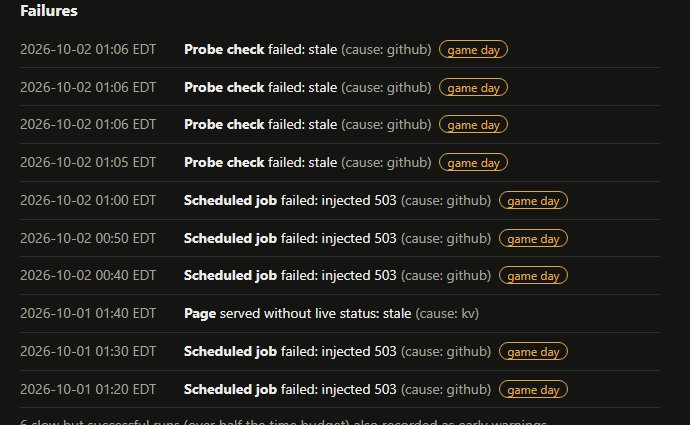
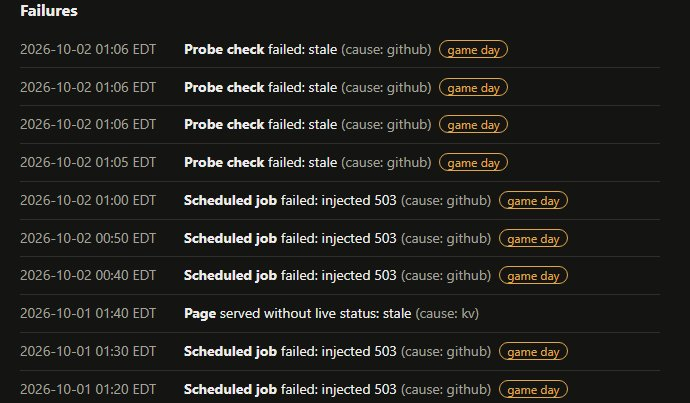
Note: the failure list that lost its history
The reliability page stopped showing both game days and the 2 Oct outage; the
note says what was seen, why (one cap of 1,000 records shared by every source,
filled by the game's records), what was not lost (anything), and the fix, with
the 3 Oct, before, after and history-page screenshots. Listed first under
Notes. Finding 4 stays open: no check runs the storage read itself.

diff --git a/src/data/profile.ts b/src/data/profile.ts
@@ -37,6 +37,12 @@ export interface SiteNote {
 
 export const siteNotes: SiteNote[] = [
   {
+    title: "The failure list that lost its history",
+    date: "2026-10-04",
+    claim: "Nothing was lost. One cap was shared, and the wrong records filled it.",
+    href: "/notes/failure-list-lost-history/",
+  },
+  {
     title: "When a load test used up the day's database writes",
     date: "2026-10-02",
     claim: "The failure looked like a choice. The logs said otherwise.",

diff --git a/docs/STATUS.md b/docs/STATUS.md
@@ -32,7 +32,8 @@ Last updated: 3 Oct 2026 (after Ludo telemetry v2 was merged and deployed).
 - Ludo telemetry v2 (3 Oct 2026, PR #1, merged and deployed; live `/reliability/` shows both figures; not run on the dev Worker first): `ludo_action` counts human actions only; bot steps go to `ludo_bot`, one event per run of bot turns (worst lateness, steps, late steps), with its own proposed 99% objective and a "Bots on pace" figure on `/reliability/#ludo`. Log lines are `v: 2`; the backfill parser reads v1 and v2.
 - Ludo fixes (3 Oct 2026, on `main`): a moved token no longer vanishes until the next roll (the last animation frame dropped it); invite screen shows one action; the game ends with the last human. Verified: `npm run check`; 2,000 seeded engine games finish, replay exactly and never move a bot after the last human finishes; local friends' room over WebSockets (start with bots, leave, play goes on); invite and plain start screens rendered headless. Not yet tried on a phone.
 - Ludo (2 Oct 2026): 2,000 seeded games replay exactly and run to full placings; live tests of solo, four-player, rematch, leave (lobby, mid-game, solo stops the room), chat in 18 scripts, names; phone and desktop renders; dev load test at 40 rooms (p99 240 to 80 ms after ADR-027).
-- **Reliability redesign and the failure-list bug** (4 Oct 2026, merged to `main` and deployed): the Failures list had dropped game day 1 and the 2 Oct outage. Not data loss: the ledger keeps every record (400 days), but the window read took the newest 1,000 records across all sources and Ludo's think-time and round-trip records filled them. Fixed with a per-source cap (200 each), and a new `/reliability/failures/` lists every kept failure of the site's own checks, by day, with game days marked. The page itself: the answer first (the top line names dependencies needing attention), the 30-day strip under the objectives, speed and the glossary folded, the latest 5 failures plus the full-history link, the dependency board compact with risks first, the newest incident in full and earlier ones folded, games' secondary figures folded. Homepage short path: colons instead of dashes. Verified: 10 dashboard checks; locally the per-source query runs on the Durable Object's SQLite and the history page lists 43 local failures across 5 days. Before images for a write-up are saved in `public/notes/failure-list-cap/` (not linked yet); the after image needs production.
+- **Note: the failure list that lost its history** (4 Oct 2026, published): `/notes/failure-list-lost-history/`, first under Notes. Then, before, after and history-page screenshots in `public/notes/failure-list-cap/`. Finding 4 open: no check runs the ledger's storage read itself.
+- **Reliability redesign and the failure-list bug** (4 Oct 2026, merged to `main` and deployed): the Failures list had dropped game day 1 and the 2 Oct outage. Not data loss: the ledger keeps every record (400 days), but the window read took the newest 1,000 records across all sources and Ludo's think-time and round-trip records filled them. Fixed with a per-source cap (200 each), and a new `/reliability/failures/` lists every kept failure of the site's own checks, by day, with game days marked. The page itself: the answer first (the top line names dependencies needing attention), the 30-day strip under the objectives, speed and the glossary folded, the latest 5 failures plus the full-history link, the dependency board compact with risks first, the newest incident in full and earlier ones folded, games' secondary figures folded. Homepage short path: colons instead of dashes. Verified: 10 dashboard checks; locally the per-source query runs on the Durable Object's SQLite and the history page lists 43 local failures across 5 days. Write-up published (see above).
 - **Dependency gaps note** (4 Oct 2026): **held by the owner** until the gaps are fixed and an after shot exists. Draft in `docs/drafts/dependency-expiry-gaps.astro` (not built); before image `public/notes/dependency-expiry-gaps/before-gaps.jpg` on branch `dependency-note`. To publish: move it back to `src/pages/notes/`, restore its Notes entry and the board's "Why unknowns stay visible" link. States copied from the live `/api/limits`: four OK, usage feed token unchecked, deploy token not recorded. Close it by adding the secrets and a dated line under its "Updates". Failed expiry checks now retry every 30 minutes instead of daily, so a fix shows within half an hour.
 - **What could stop this site** (4 Oct 2026, ADR-030, merged to `main` and deployed): a card on `/reliability/#limits` and `GET /api/limits`: six renewals with expiry read from the issuer daily (domain, GitHub token, incident desk token, log backfill token, usage feed token, Cloudflare deploy token), and today's use of five free-tier allowances every 30 minutes. A daily `limits` workflow keeps one escalating issue per item (P3 at 90 days, P2 at 60, P1 at 30, P0 expired). Verified locally: the domain (29 Sep 2027, registry) and the log backfill token (31 Oct 2027, Cloudflare) were read live; the CI report path refused a missing or wrong secret (401), a bad body (400) and an oversized one (413) and accepted a valid report (204); the workflow script's dry run chose P2 at 46 days and P3 for unreadable items; 8 dashboard checks pass, including the thresholds. **Needs the owner:** secrets `LIMITS_REPORT_TOKEN` (Cloudflare and GitHub) and `CF_ANALYTICS_TOKEN` (Cloudflare); until then those rows say so in public. Total storage is not shown: Cloudflare's analytics return no storage figure for this account.
 - Ludo empty games end (4 Oct 2026, merged to `main` and deployed): the last person pressing Leave mid-game ends it at once; if everyone just disconnects, it ends after 1 minute unless someone returns. Recorded once; the room keeps one small "ended" record and its link says the game has ended. Verified on `npm run preview`: both players left → late link told "ended"; a player back after 5 s resumed the same seat; nobody back → ended by the alarm at 60.6 s; one `ludo_game` record each. Not yet seen in a browser.
